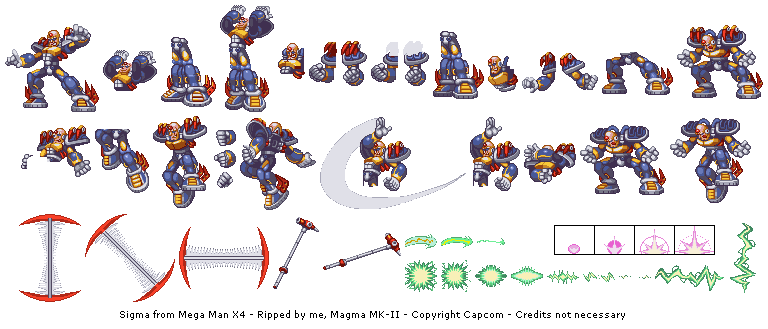
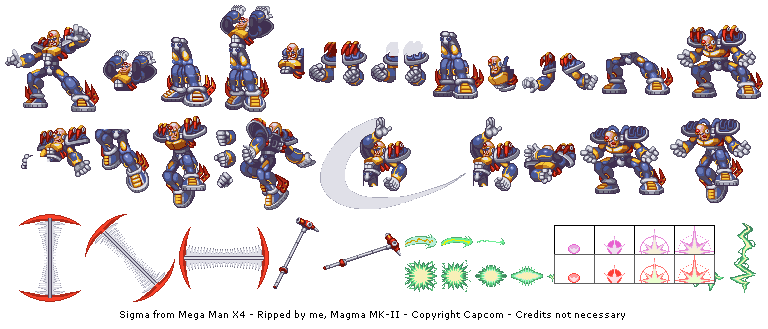
Finished Sigma

Changed region(s): [[0.7188, 0.7599, 0.9375, 0.8815], [0.7188, 0.7599, 0.7812, 0.7903]]

diff --git a/js/Game/Sprites/Sigma.js b/js/Game/Sprites/Sigma.js
@@ -18,7 +18,7 @@ const SigmaStageState = {
 /**
  * State for Sigma's attacks.
  *
- * @type {{land: number, sickle: number, energyOrb: number, none: number, dash: number}}
+ * @type {{restartCycle: number, longLaser: number, laser: number, land: number, sickle: number, energyOrb: number, none: number, dash: number}}
  */
 const SigmaAttackState = {
     none: 0,
@@ -27,6 +27,9 @@ const SigmaAttackState = {
     sickle: 3,
     land: 4,
     laser: 5,
+    longLaser: 6,
+    restartCycleInit: 7,
+    restartCycle: 8
 };
 
 /**
@@ -37,7 +40,7 @@ const SigmaAttackState = {
 const SigmaDashDirection = {
     none: 0,
     left: 1,
-    right: 2,
+    right: 2
 };
 
 /**
@@ -162,19 +165,35 @@ class Sigma extends Sprite {
                                     this.initY,
                                     25,
                                     () => {
-                                        this.spawnOrbs();
+                                        this.flip = this.player.x >= this.x;
+                                        this.spawnOrbs(12);
                                         this.currentAnimation = this.animations.land;
                                         this.states.set(SigmaAttackState, SigmaAttackState.none);
 
                                         this.game.setTimeout(() => {
                                             // Start the laser attack
-                                            this.laser();
+                                            if (this.x === this.#bounds[0] || this.x === this.#bounds[1]) {
+                                                this.longLaser();
+                                            } else {
+                                                this.laser();
+                                            }
                                         }, 40);
                                     }
                                 );
                                 break;
                             case SigmaAttackState.laser:
-                                // TODO
+                                // No use for the state. Might be useful later.
+                                this.states.set(SigmaAttackState, SigmaAttackState.none);
+                                break;
+                            case SigmaAttackState.restartCycle:
+                                this.moveTo(
+                                    this.#bounds[this.player.x >= this.x ? 0 : 1],
+                                    this.initY - 400,
+                                    20,
+                                    () => {
+                                        this.states.set(SigmaAttackState, SigmaAttackState.land);
+                                    }
+                                );
                                 break;
                         }
                         break;
@@ -291,6 +310,7 @@ class Sigma extends Sprite {
                 16,
                 undefined,
                 () => {
+                    this.spawnLasers();
                     this.currentAnimation = this.animations.laser;
                 }
             ),
@@ -321,7 +341,11 @@ class Sigma extends Sprite {
                 3,
                 undefined,
                 () => {
-                    this.currentAnimation = this.animations.jump;
+                    if (this.states.get(SigmaAttackState) === SigmaAttackState.restartCycleInit) {
+                        this.flip = this.player.x < this.x;
+                        this.states.set(SigmaAttackState, SigmaAttackState.restartCycle);
+                        this.currentAnimation = this.animations.jump;
+                    }
                 }
             ),
             jump: this.createAnimation(
@@ -335,7 +359,7 @@ class Sigma extends Sprite {
                 92,
                 0,
                 0,
-                1
+                1,
             ),
             prepareSickle_0: this.createAnimation(
                 2,
@@ -383,7 +407,7 @@ class Sigma extends Sprite {
                 undefined,
                 () => {
                     // Recenter character
-                    this.x -= 30 * this.scale;
+                    this.x -= 30 * this.scale * (this.flip ? -1 : 1);
                     this.y -= 20 * this.scale;
 
                     this.currentAnimation = this.animations.prepareSickle_3;
@@ -404,7 +428,7 @@ class Sigma extends Sprite {
                 undefined,
                 () => {
                     // Recenter character
-                    this.x += 20 * this.scale;
+                    this.x += 20 * this.scale * (this.flip ? 2 : 1);
                     this.y += 21 * this.scale;
 
                     this.game.insertSprite(
@@ -433,6 +457,7 @@ class Sigma extends Sprite {
                 96,
                 0,
                 0,
+                1
             ),
             getSickle: this.createAnimation(
                 2,
@@ -550,7 +575,8 @@ class Sigma extends Sprite {
      * Starts the attacking cycle for stage 2.
      */
     startCycle2() {
-        // TODO
+        this.currentAnimation = this.animations.prepareJump;
+        this.states.set(SigmaAttackState, SigmaAttackState.restartCycleInit);
     }
 
     /**
@@ -607,8 +633,10 @@ class Sigma extends Sprite {
 
     /**
      * Performs the Orbs Attack.
+     *
+     * @param speed {number?} speed of the orbs.
      */
-    spawnOrbs() {
+    spawnOrbs(speed) {
         this.#orbAttackCounter++;
         const x = this.orbX + 40, y = this.orbY + 20;
 
@@ -618,14 +646,16 @@ class Sigma extends Sprite {
                 x,
                 y,
                 2,
-                true
+                true,
+                speed,
             ),
             new SigmaShockProjectile(
                 this.level,
                 x,
                 y,
                 2,
-                false
+                false,
+                speed,
             ),
         )
     }
@@ -641,7 +671,7 @@ class Sigma extends Sprite {
         // This state is for the stage 2 animations (Different from the previous idle)
         this.currentAnimation = this.animations.idle;
 
-        // TODO change
+        // TODO spawn explosions then change to stage 2
     }
 
     /**
@@ -652,12 +682,102 @@ class Sigma extends Sprite {
     }
 
     /**
+     * Spawns the lasers from Sigma's eyes.
+     * When the lasers finish, a cycle starts.
+     */
+    spawnLasers() {
+        const long = this.states.get(SigmaAttackState) === SigmaAttackState.longLaser;
+
+        // Necessary state change
+        if (long) {
+            this.states.set(SigmaAttackState, SigmaAttackState.none);
+        }
+
+        const x = this.flip ? this.x + 120 : this.rx - 24,
+            y = this.y + 40,
+            bottom = this.by - 60,
+            close = (long ? 10 : 0) + 60,
+            far = (long ? 10 : 0) + 70,
+            slow = long ? 2.5 : 2,
+            fast = long ? 3 : 2.5,
+            duration = 120;
+
+        const l0 = new SigmaLaser(
+            x,
+            this.flip ? y : y + 2,
+            bottom,
+            this.flip ? far : close,
+            this.flip,
+            undefined,
+            this.flip ? fast : slow
+        );
+
+        // Head laser
+        const hl = new SigmaLaser(
+            x + (this.flip ? 4 : 7),
+            y - (this.flip ? 11 : 10),
+            bottom,
+            85,
+            this.flip,
+            undefined,
+            1,
+            undefined,
+            true
+        );
+
+        const l1 = new SigmaLaser(
+            x + 10,
+            this.flip ? y : y + 3,
+            bottom,
+            this.flip ? close : far,
+            this.flip,
+            () => {
+                // L1 is automatically removed by duration
+                this.game.removeSprite(l0);
+
+                if (long) {
+                    this.game.removeSprite(hl);
+                }
+
+                this.flip = this.player.x > this.x;
+                this.currentAnimation = this.animations.idle;
+
+                // Start the cycle iff not long
+                if (!long) {
+                    this.startCycle2();
+                } else {
+                    this.sickleSwipe();
+                }
+            },
+            this.flip ? slow : fast,
+            duration
+        );
+
+        // Insert the sprite into the game
+        this.game.insertSprites(l0, l1);
+
+        if (long) {
+            // Insert the head laser
+            this.game.insertSprite(hl);
+        }
+    }
+
+    /**
      * Starts the laser attack.
      */
     laser() {
         this.flip = this.player.x <= this.x;
-        this.currentAnimation = this.animations.prepareLaser;
         this.states.set(SigmaAttackState, SigmaAttackState.laser);
+        this.currentAnimation = this.animations.prepareLaser;
+    }
+
+    /**
+     * Starts the long laser attack.
+     */
+    longLaser() {
+        this.flip = this.player.x <= this.x;
+        this.states.set(SigmaAttackState, SigmaAttackState.longLaser);
+        this.currentAnimation = this.animations.prepareLaser;
     }
 
     /**

diff --git a/js/Game/Sprites/SigmaLaser.js b/js/Game/Sprites/SigmaLaser.js
@@ -17,6 +17,14 @@ class SigmaLaser extends Sprite {
     #coords1;
 
     /**
+     * True if the laser is red (and thus more deadly).
+     *
+     * @type {boolean}
+     * @private
+     */
+    #red;
+
+    /**
      * @param x {number} starting x-coordinate of the laser.
      * @param y {number} starting y-coordinate of the laser.
      * @param groundY {number} y-coordinate of the ground.
@@ -24,7 +32,8 @@ class SigmaLaser extends Sprite {
      * @param toLeft {boolean} if true the laser shoots to the left.
      * @param onEnd {function()?} callback function when the laser ends.
      * @param speed {number?} speed of rotation of the laser from staring point to end point.
-     * @param duration {number?} duration of the laser after reaching its destination.
+     * @param duration {number?} duration of the laser after reaching its destination. Does not end if not given.
+     * @param red {boolean?} true if the laser is red and thus more deadly.
      * @param hitBoxBrush {{
      *    borderWidth?: number,
      *    borderColor?: string,
@@ -40,7 +49,8 @@ class SigmaLaser extends Sprite {
         toLeft,
         onEnd,
         speed = 2,
-        duration = 1,
+        duration,
+        red,
         hitBoxBrush
     ) {
         if (!toLeft) {
@@ -65,7 +75,7 @@ class SigmaLaser extends Sprite {
 
                 this.moveCurrentAnimation();
 
-                if (this.rotation === maxRotation && !haveTimeout) {
+                if (duration !== undefined && this.rotation === maxRotation && !haveTimeout) {
                     haveTimeout = true;
 
                     this.game.setTimeout(() => {
@@ -78,7 +88,7 @@ class SigmaLaser extends Sprite {
                 }
             },
             {
-                fillColor: "#E888D8EE",
+                fillColor: red ? "#C70E20EE" : "#E888D8EE",
             },
             hitBoxBrush,
             undefined,
@@ -89,6 +99,7 @@ class SigmaLaser extends Sprite {
 
         // Initialize the coordinates
         this.#coords1 = [this.x, groundY];
+        this.#red = red;
 
         // Stores the rotation
         this.rotation = 0;
@@ -96,7 +107,7 @@ class SigmaLaser extends Sprite {
         this.currentAnimation = this.createAnimation(
             0,
             555,
-            226,
+            this.#red ? 255 : 226,
             4,
             1,
             4,
@@ -137,7 +148,7 @@ class SigmaLaser extends Sprite {
      * @returns {number} width of the laser.
      */
     get width() {
-        return 2;
+        return this.#red ? 3 : 2;
     }
 
     /**

diff --git a/js/index.js b/js/index.js
@@ -144,9 +144,7 @@ const bomb = new Bomb(l1, 0, 0, 2);
 const field = new IrisField(0, 0, 0, l1.scale);
 const d = new Sigma(700, 400, [0, 1000], l1.scale);
 const b = new Dejira(1000, 500, l1.scale);
-const l = new SigmaLaser(700, 500, 700, 60, true, undefined, undefined, 200, {
-    fillColor: '#00ff0055'
-});
+// const l = new SigmaLaser(700, 500, 700, 60, true, undefined, undefined);
 const b2 = new IrisBeam(700, 400, l1.scale, true);
 const gig = new BomberBat(600, 100, bomb, l1.scale);
 
@@ -164,7 +162,7 @@ const expl = new Explosion(
 // b.currentAnimation = b.animations.attack;
 
 const sp = new ShockProjectile(0, 0, 2, 3);
-l1.sprites.push(field, expl, b2, d, sp, bomb, gig, l);
+l1.sprites.push(field, expl, b2, d, sp, bomb, gig);
 
 
 
@@ -195,7 +193,7 @@ const keyPressHandler = (e) => {
             moveVector[0] = speed;
             break;
         case 'x':
-            d.damage(2);
+            d.longLaser();
             // d.spawnDrones();
             // d.laserGrid();
             // b.start();

diff --git a/js/GameEngine/BaseSprites/Sprite.js b/js/GameEngine/BaseSprites/Sprite.js
@@ -1119,7 +1119,7 @@ class Sprite {
         angleRef.value += angularSpeed;
 
         // Call onCycle
-        if (angularSpeed > 0 ? angleRef.value : Math.abs(angleRef.value) >= 360 + angleRef.initValue && onCycle) {
+        if (Math.abs(angleRef.value) >= 360 + angleRef.initValue && onCycle) {
             onCycle();
         }
 
